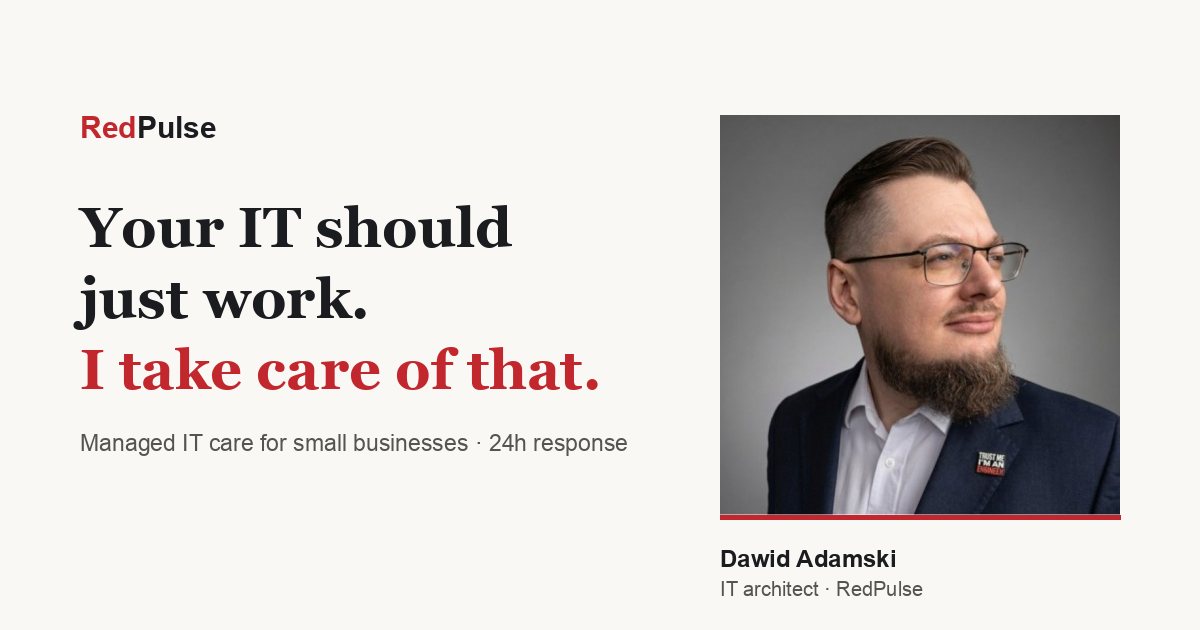
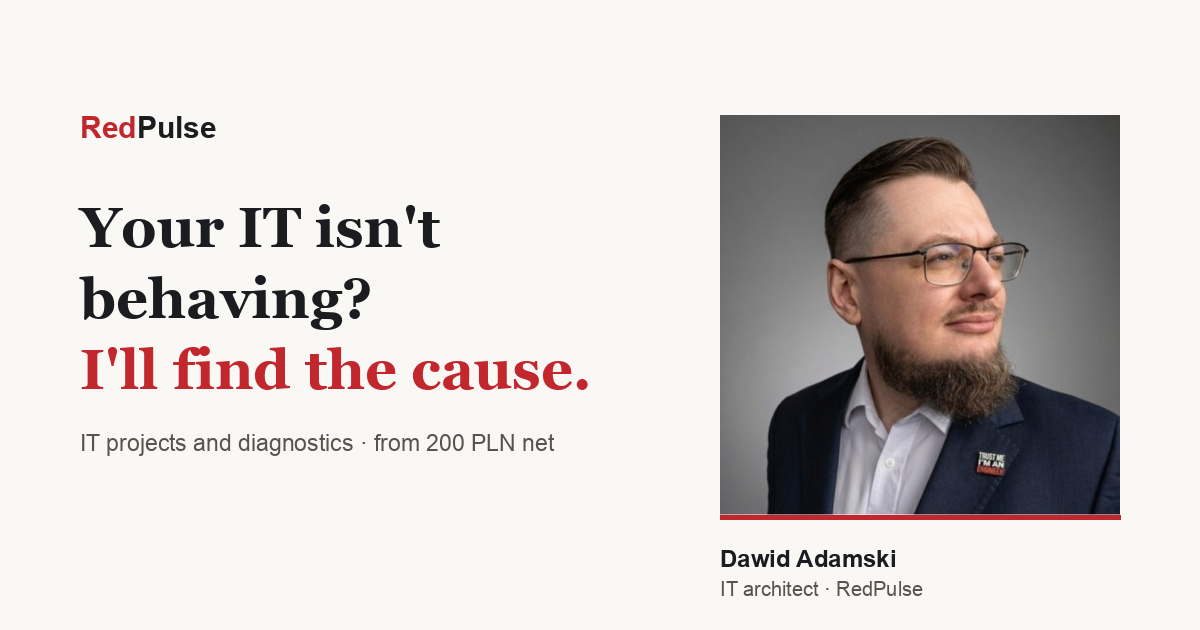
copy: drop managed IT care, reposition around projects and diagnostics
Managed care was not a line in the price list — it was the site's whole
positioning, running through twelve files: the hero eyebrow, the page
titles, the meta descriptions, the Organization schema, a service, a step
of the process section, two FAQ answers and the About text. All of it now
talks about IT projects and diagnostics instead, and the narrowing to
"small businesses" is gone with it.

The call is now paid, and the price is stated at the button rather than
discovered after clicking: 200 PLN net for a 30-minute consultation, 300
PLN net for an hour-long diagnosis, with the diagnosis cost coming off the
project quote. That partly walks back the reasoning behind D1 — booking a
call was made the main CTA because it had a lower threshold than email —
so the threshold is now named openly instead of hidden.

The process section becomes consultation/diagnosis → plan and quote →
delivery, since there is no ongoing care to end on.

Also removed the infrastructure-care proof card, regenerated both OG
images (they still carried the old promise) and refreshed llms.txt, which
had drifted to an even older positioning.

Changed region(s): [[0.0617, 0.4222, 0.4933, 0.6333], [0.0617, 0.6635, 0.5242, 0.7238], [0.2467, 0.3317, 0.4317, 0.3921]]

diff --git a/src/components/Hero.vue b/src/components/Hero.vue
@@ -10,6 +10,7 @@ defineProps<{
       description: string;
       cta: string;
       ctaSecondary: string;
+      ctaNote: string;
       portraitAlt: string;
       portraitName: string;
       portraitRole: string;
@@ -53,6 +54,12 @@ defineProps<{
             {{ t.hero.ctaSecondary }}
           </a>
         </div>
+
+        <!-- The call is paid, so the price is stated at the button rather than
+             discovered after clicking. -->
+        <p class="hero-cta-note animate-fade-in-up animate-delay-400">
+          {{ t.hero.ctaNote }}
+        </p>
       </div>
 
       <figure class="hero-portrait animate-fade-in-up animate-delay-200">
@@ -193,6 +200,15 @@ defineProps<{
   display: flex;
   flex-wrap: wrap;
   gap: 1rem;
+  opacity: 0;
+}
+
+.hero-cta-note {
+  margin-top: 1rem;
+  max-width: 520px;
+  font-size: 0.875rem;
+  line-height: 1.6;
+  color: var(--gray-600);
   opacity: 0;
 }
 

diff --git a/src/components/About.vue b/src/components/About.vue
@@ -139,13 +139,19 @@ defineProps<{
   margin-top: 0.5rem;
 }
 
+/* Flex rather than a fixed 3-column grid: the number of proof cards changes as
+   material is added or retired, and two cards should centre instead of leaving
+   an empty cell. */
 .about-highlights {
-  display: grid;
-  grid-template-columns: repeat(3, 1fr);
+  display: flex;
+  flex-wrap: wrap;
+  justify-content: center;
   gap: 1.5rem;
 }
 
 .highlight-card {
+  flex: 1 1 300px;
+  max-width: 400px;
   background: var(--white);
   padding: 2rem;
   border: 1px solid var(--gray-200);
@@ -211,8 +217,8 @@ defineProps<{
     grid-template-columns: 1fr;
   }
 
-  .about-highlights {
-    grid-template-columns: 1fr;
+  .highlight-card {
+    max-width: none;
   }
 }
 

diff --git a/docs/REDESIGN.md b/docs/REDESIGN.md
@@ -3,7 +3,13 @@
 > Źródło: analiza porównawcza redpulse.tech vs marcinkowski.ai (rozmowa z Claude, 2026-07-20).
 > Status: w trakcie. Kolejność wg priorytetu w ramach sekcji.
 > Zrobione (2026-07-21): A2–A4, B1–B3, C3, D1–D3. A1 tymczasowo (awatar 400×400).
-> Otwarte: A1b (sesja), C1, C2 (czekają na materiał od Dawida), treść wiki (szkielet gotowy).
+> Otwarte: A1b (sesja), C1, C2 (czekają na materiał od Dawida).
+>
+> **Przepozycjonowanie (2026-07-21):** „stała opieka IT" wypadła z oferty, a wraz z nią
+> zawężenie do małych firm. Strona mówi teraz o projektach i diagnostyce IT. Rozmowa jest
+> płatna: konsultacja 200 zł netto / 30 min, diagnoza 300 zł netto / godz., koszt diagnozy
+> odliczany od wyceny projektu. Uwagi w tym dokumencie sprzed tej daty odnoszą się do
+> starego pozycjonowania.
 
 ## Kontekst / diagnoza
 
